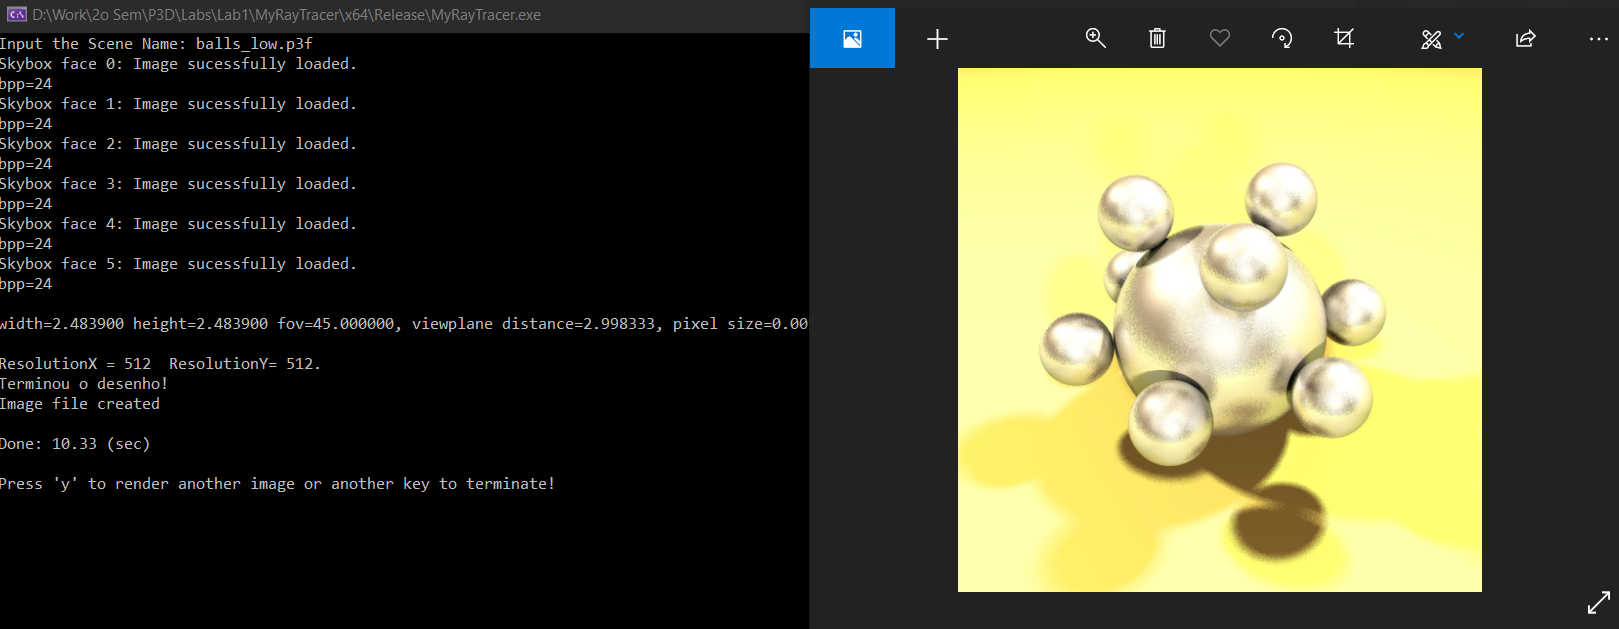
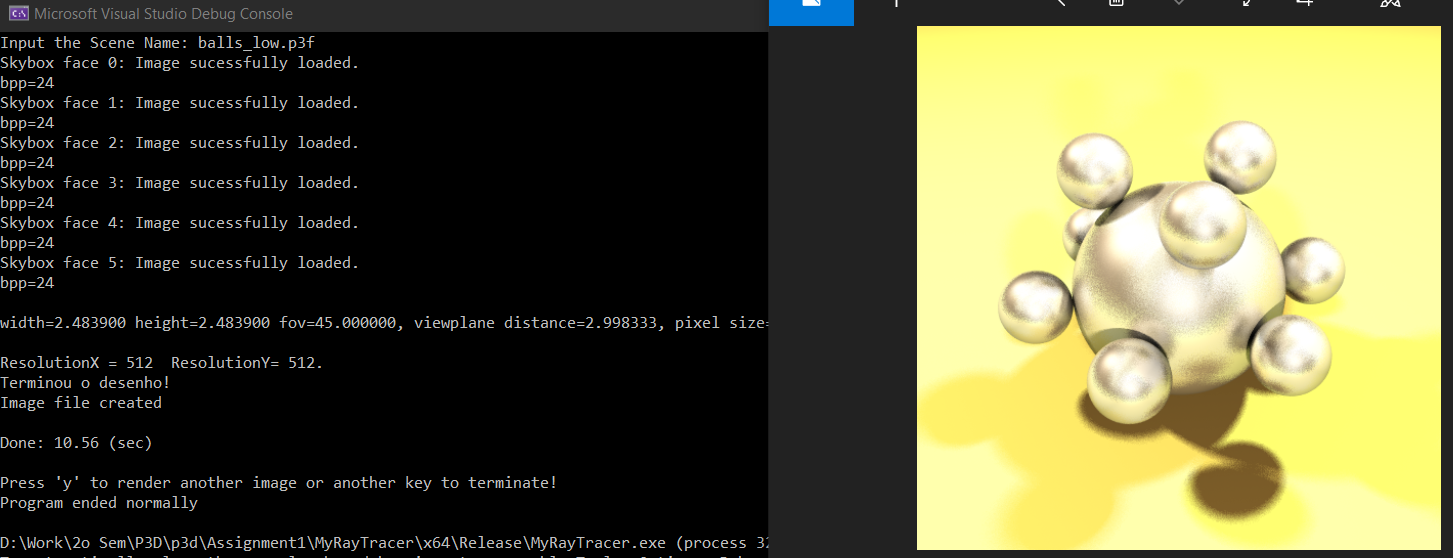
pics

diff --git a/Assignment1/MyRayTracer/MyRayTracer/main.cpp b/Assignment1/MyRayTracer/MyRayTracer/main.cpp
@@ -52,7 +52,7 @@ long myTime, timebase = 0, frame = 0;
 char s[32];
 
 //Enable OpenGL drawing.  
-bool drawModeEnabled = true;
+bool drawModeEnabled = false;
 
 bool P3F_scene = true; //choose between P3F scene or a built-in random scene
 
@@ -81,14 +81,14 @@ int WindowHandle = 0;
 /* OPTIONS *///////////////////////////////
 float SHADOW_BIAS = 0.001f;
 
-bool ANTIALIASING = false;
+bool ANTIALIASING = true;
 int SPP = 4; // (sqrt) Sample Per Pixel - (sqrt) Number of rays called for each pixel
 
-bool SOFT_SHADOWS = false;
-int NO_LIGHTS = 4; // (sqrt) Number of point lights used to represent area light (NOTE: SHOULD BE THE SAME AS SPP)
+bool SOFT_SHADOWS = true;
+int NO_LIGHTS = 4; // (sqrt) Number of point lights used to represent area light (NOTE: SHOULD BE THE SAME AS SPP TO PRESENT SIMILAR EFFECTS WHEN WITH/WITHOUT ANTIALIASING)
 int off_x, off_y; // Used to cause a more even distribution when using soft shadows + antialiasing
 
-bool DEPTH_OF_FIELD = false;
+bool DEPTH_OF_FIELD = true;
 
 bool FUZZY_REFLECTIONS = false;
 float ROUGHNESS = 0.3f;
@@ -98,7 +98,7 @@ float t0 = 0.0f, t1 = 1.0f; // Camera shutter time
 ///////////////////////////////////////////
 
 /* ACCELERATION STRUCTURES *///////////////
-int USE_ACCEL_STRUCT = 2; // 0 - No acceleration structure ; 1 - Uniform Grid ; 2 - Bounding Volume Hierarchy
+int USE_ACCEL_STRUCT = 1; // 0 - No acceleration structure ; 1 - Uniform Grid ; 2 - Bounding Volume Hierarchy
 
 Grid uGrid;
 int Ray::next_id = 0; // For Mailboxing

diff --git a/Assignment1/MyRayTracer/MyRayTracer/bvh.cpp b/Assignment1/MyRayTracer/MyRayTracer/bvh.cpp
@@ -121,9 +121,9 @@ void BVH::build_recursive(int left_index, int right_index, BVHNode* node) {
 		int split_index;
 
 		// Check that left of mid_coord isnt empty (i.e object at left index has a centroid at the right of mid coord and object at right index has a centroid at left of mid coord).
-		// If any of those conditions happen, one of our halfs is empty so just use the middle index as a split index
+		// If any of those conditions happen, one of our halfs is empty so just use left index + threshold
 		if (objects[left_index]->getCentroid().getIndex(axis) > mid_coord || objects[right_index - 1]->getCentroid().getIndex(axis) <= mid_coord) {
-			split_index = left_index + (right_index - left_index) / 2;
+			split_index = left_index + Threshold;
 		}
 		else {
 			//split_index = binary_search_split_index(left_index, right_index, mid_coord, axis);
